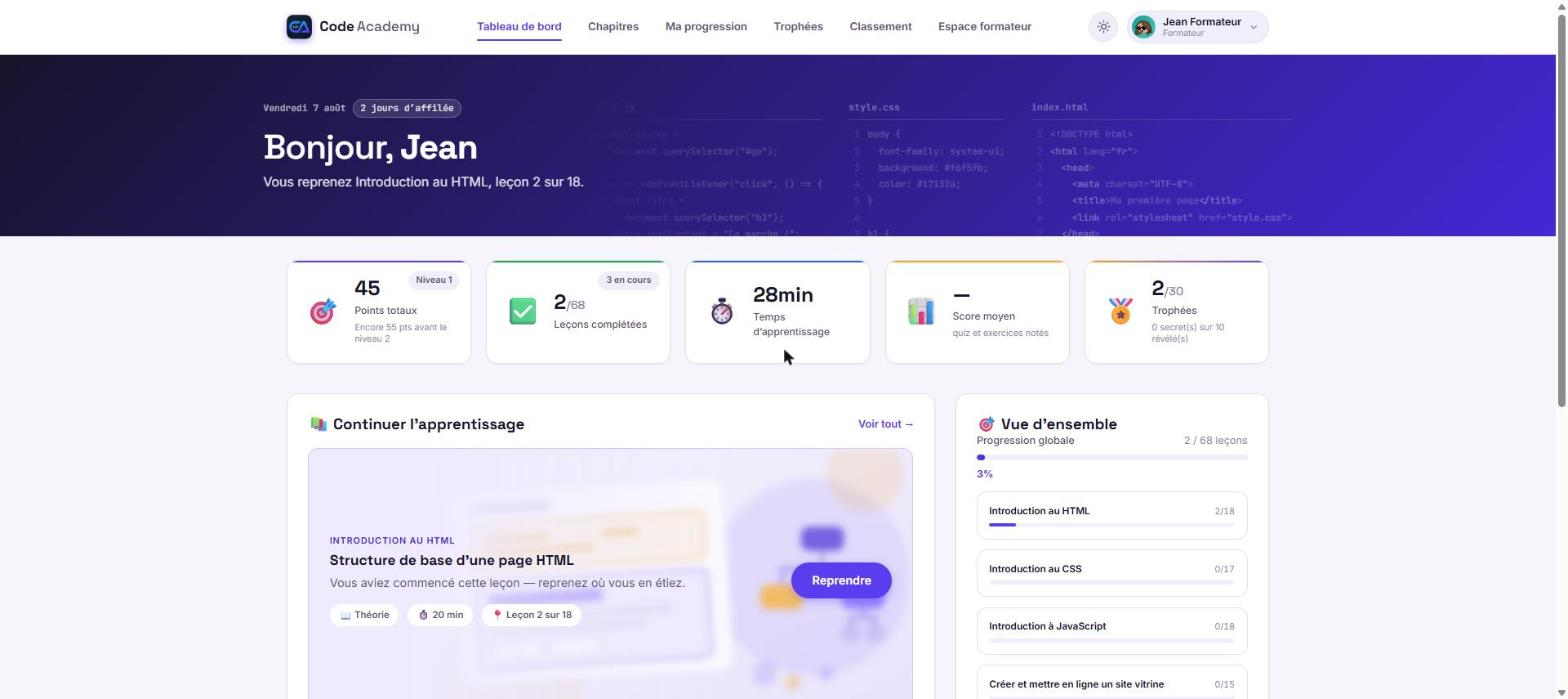
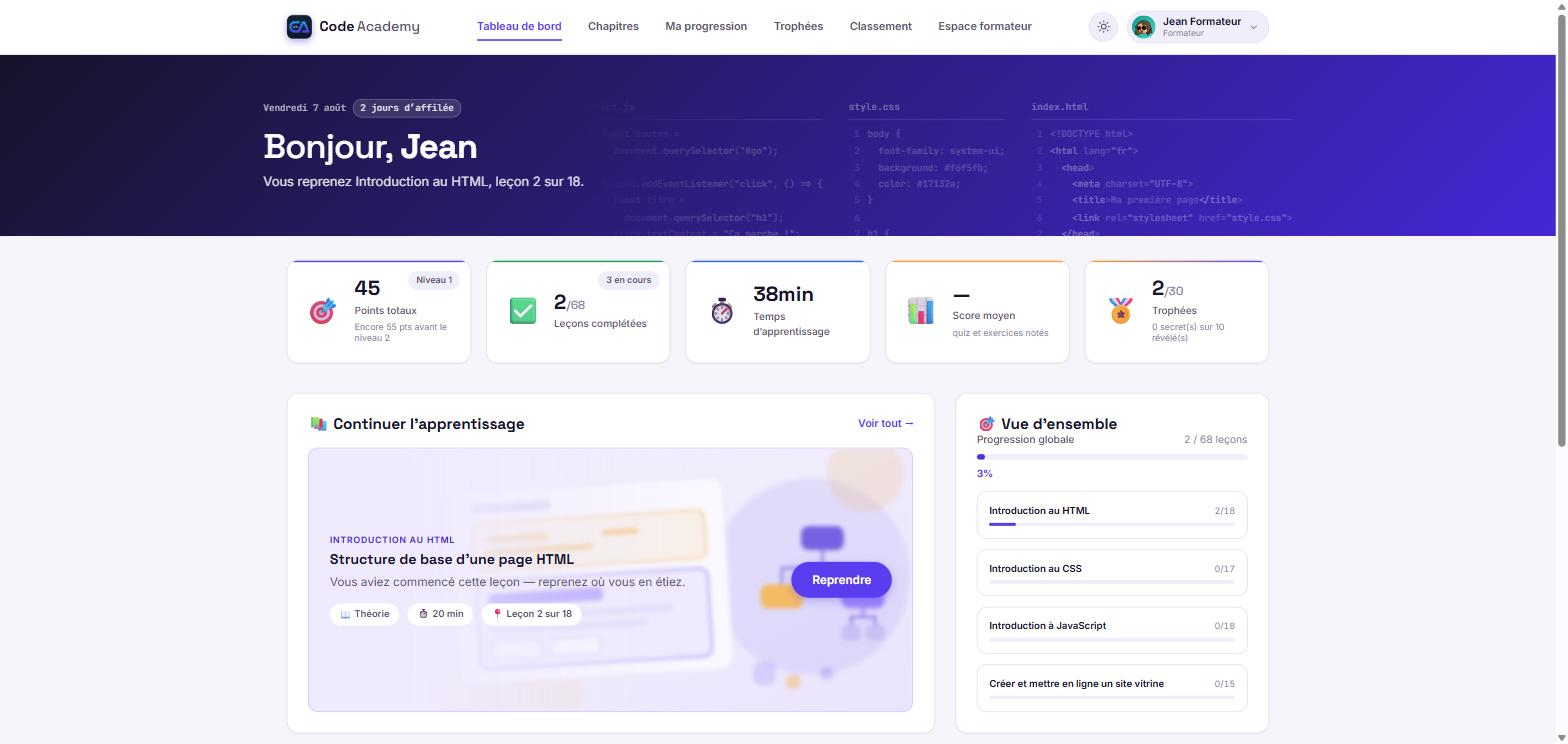
docs: rafraîchir la capture du tableau de bord et la légender
L'image était **périmée** : prise avant le passage du flou des illustrations
de 5 px à 3 px, elle montrait encore le motif en tache. La nouvelle rend le
dessin lisible, comme l'application aujourd'hui.

Ajoute une légende sous l'image. Elle était en tête, sans un mot pour dire ce
qu'on regarde — les trois autres captures ont chacune la leur. La légende dit
ce que l'image ne montre pas : que les trois fichiers du bandeau sont les
trois premiers chapitres du parcours.

diff --git a/README.md b/README.md
@@ -23,6 +23,11 @@
 
 ![Le tableau de bord d'un apprenant](docs/images/tableau-de-bord.jpg)
 
+<div align="center"><i>Le tableau de bord : là où l'on reprend son parcours.
+Le bandeau porte trois fichiers ouverts — <code>script.js</code>,
+<code>style.css</code>, <code>index.html</code> — les trois premiers chapitres
+du parcours.</i></div>
+
 ---
 
 ## Sommaire
